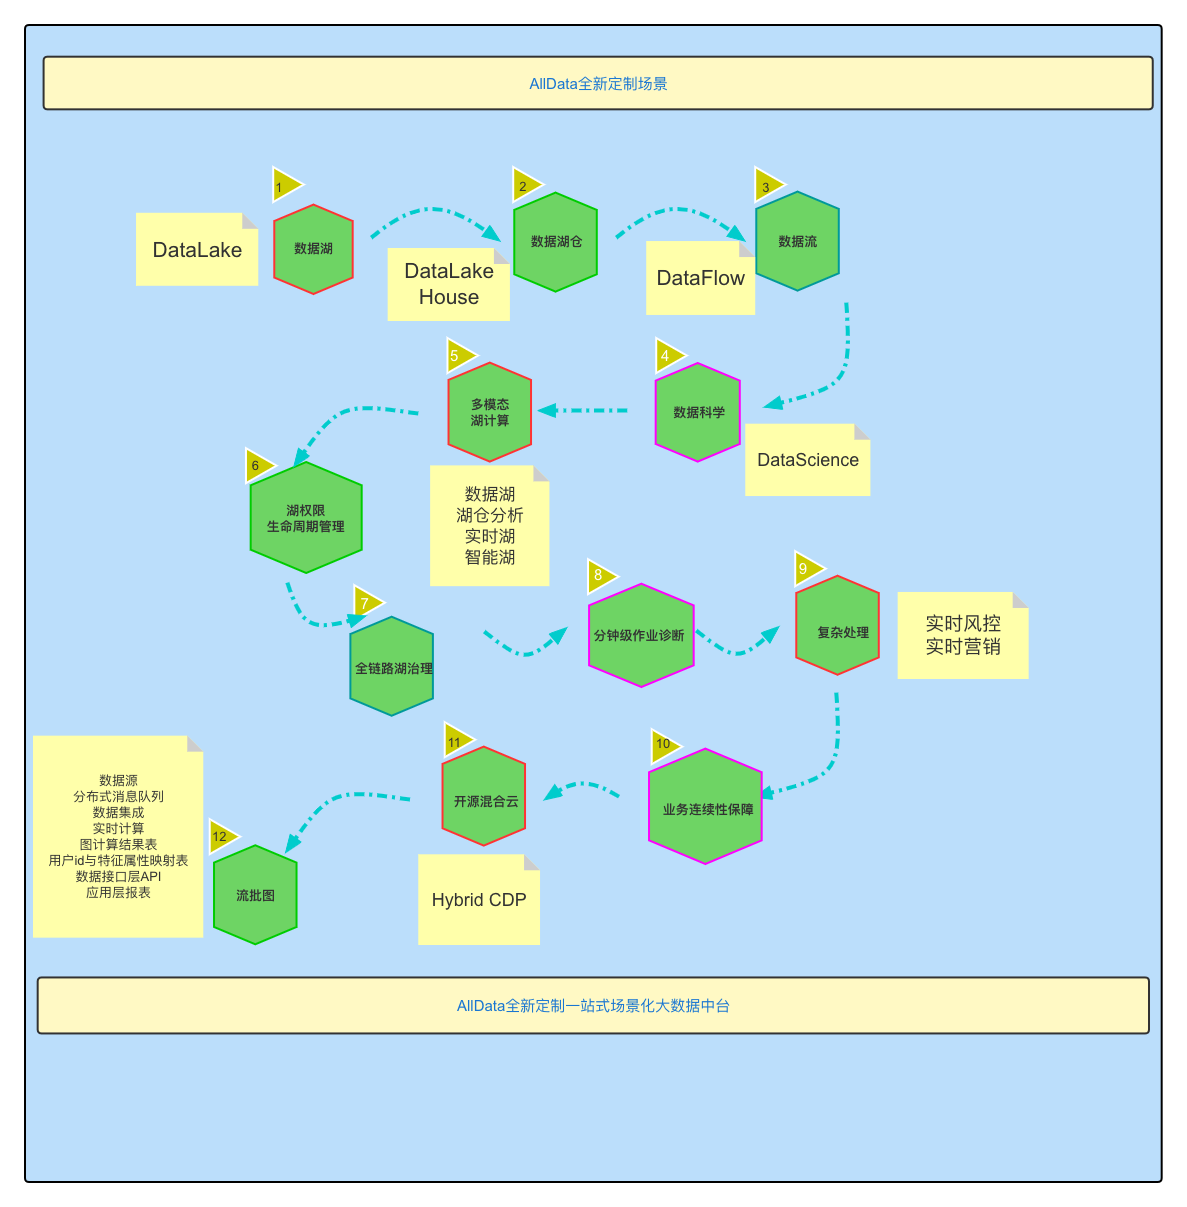
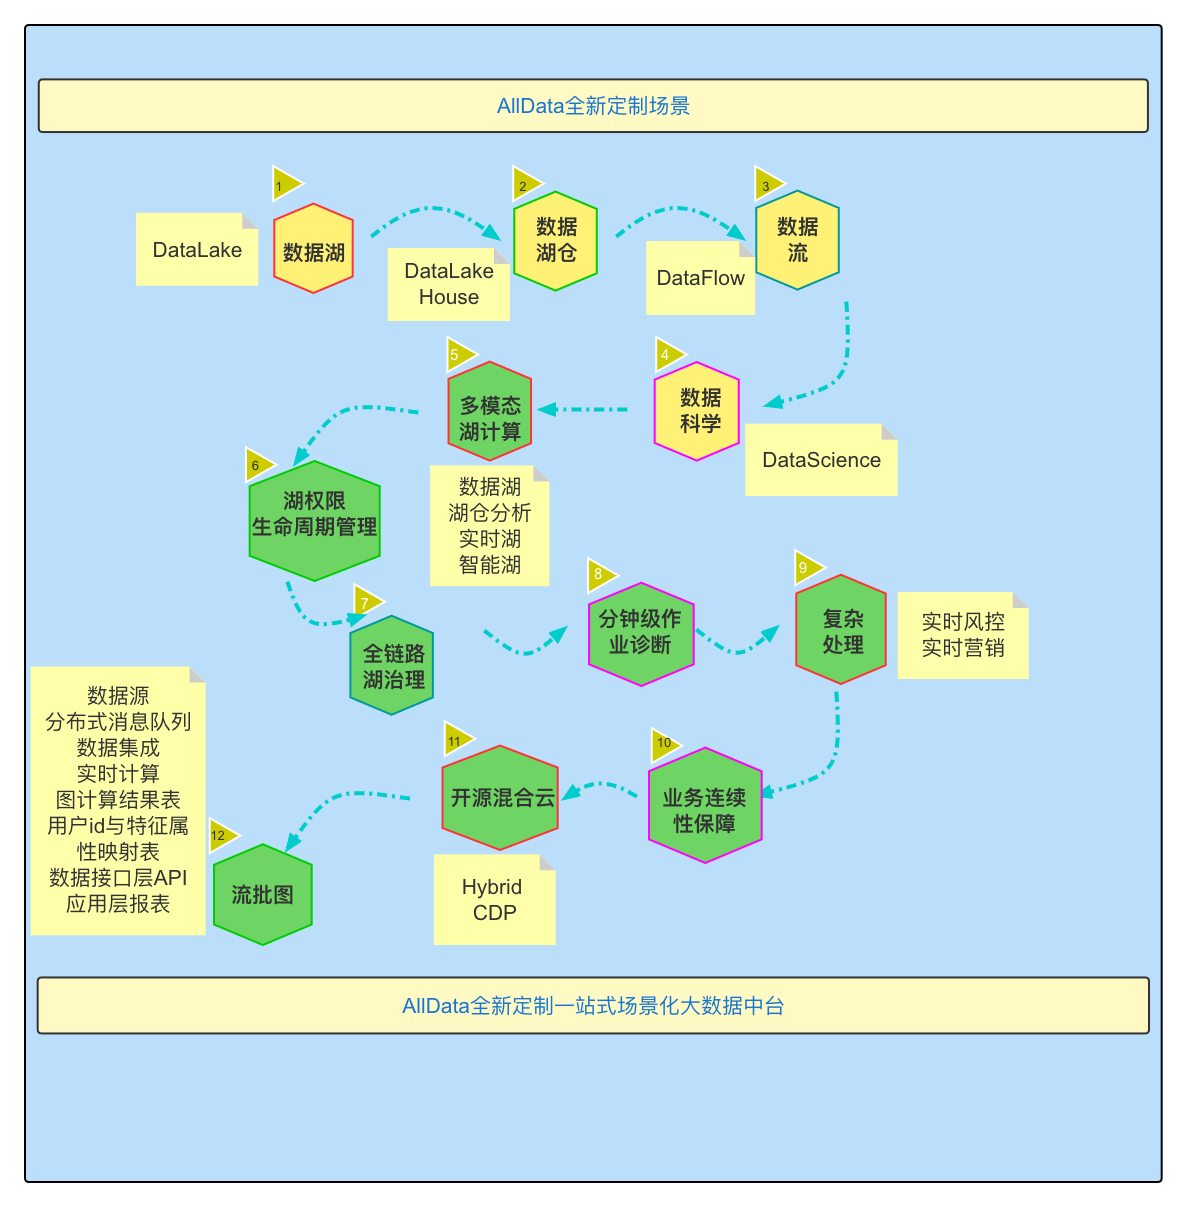
feature(branch_wlh): Add AllData全新定制一站式场景化大数据中台

diff --git a/README_ZH.md b/README_ZH.md
@@ -18,7 +18,7 @@
 > 4、您将有机会成为AllData极客开发团队成员，获得成就感与价值输出愉悦感
 
 
-### [AllData社区服务器捐赠10-100元](https://user-images.githubusercontent.com/20246692/190121827-62c6bd5c-5b6f-449c-8a5f-f90c4fea9c02.jpg)
+### [AllData社区服务器捐赠50-200元](https://user-images.githubusercontent.com/20246692/190121827-62c6bd5c-5b6f-449c-8a5f-f90c4fea9c02.jpg)
 <br/>
 <img width="800" alt="image" src="https://user-images.githubusercontent.com/20246692/190121827-62c6bd5c-5b6f-449c-8a5f-f90c4fea9c02.jpg">
 
@@ -52,6 +52,17 @@
 
 [![Stargazers over time](https://starchart.cc/authorwlh/alldata.svg)](https://starchart.cc/authorwlh/alldata)
 
+
+
+## AllData Doris
+<br/>
+<img width="1215" alt="image" src="https://user-images.githubusercontent.com/20246692/200178943-7a8edb50-b4d6-4095-9e39-2b3303925701.png">
+<br/>
+
+## AllData全新定制一站式场景化大数据中台
+<br/>
+<img width="1215" alt="image" src="https://user-images.githubusercontent.com/20246692/200178946-39ceac1a-d76f-4964-aca7-7227f5750303.png">
+<br/>
 
 
 ## Architecture
